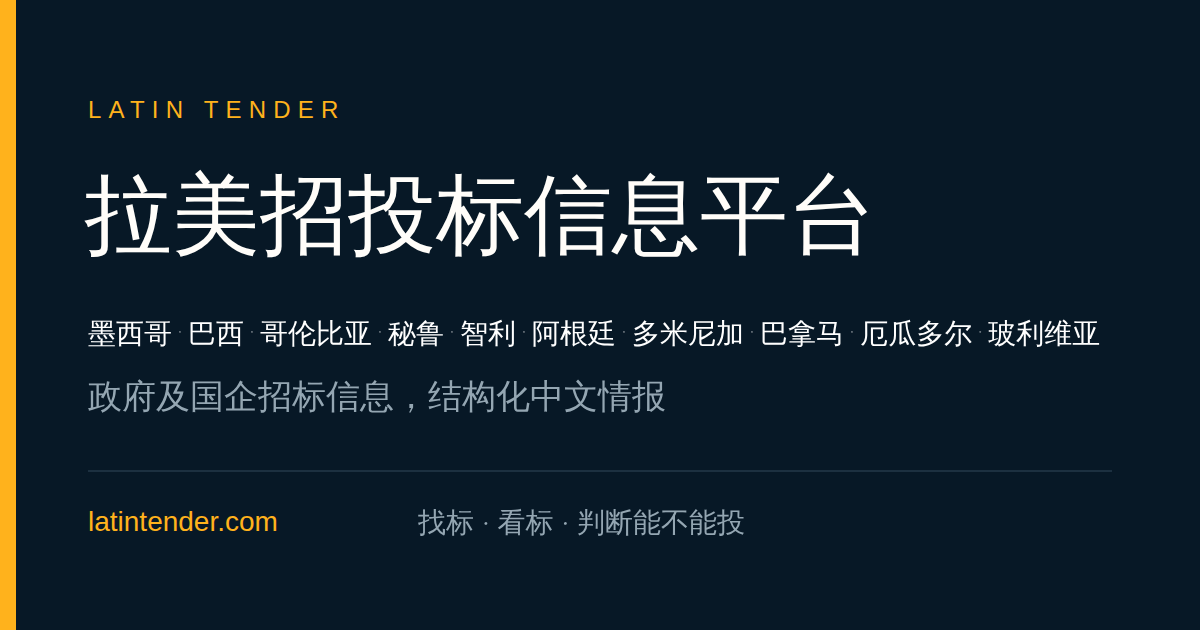
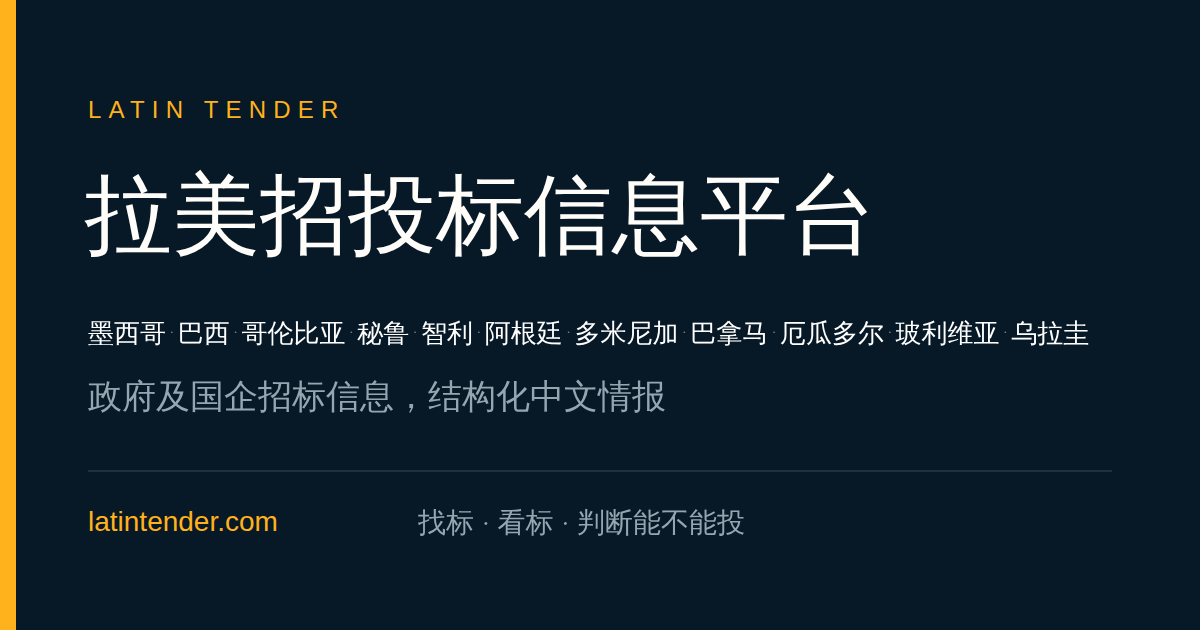
Open Uruguay to visitors
User: 前台+后台开放乌拉圭.
- STAGED_COUNTRIES keeps Guyana only; AVAILABLE_COUNTRIES, the country
  filter (「+6」), notification and Basic-plan choices (UI, API, migration
  0069), /countries/uruguay, JSON-LD, public-title prompt.
- Footer: eleven pills break 6 + 5 so 乌拉圭 is not alone on a third line
  (both lines fit at 360px).
- Copy: 十国 → 十一国 and the country lists in titles, descriptions,
  keywords, llms.txt, clarifications (with ARCE), auth panel, localized
  subtitle, hero line (34 characters). Open Graph country line redrawn
  with eleven names at 26px, same margins; the rest of the image is
  unchanged. ARCE joins the platforms animation (15 over 12 on desktop,
  a second six-dot row on mobile, ordered so no labels touch).
- The homepage coverage map is not redrawn yet (user: 地图先不刷新 … 等到
  再加一个国家再刷首页地图): it keeps its ten countries until then.
- Admin: tab without 「未公开」 next to Bolivia, staging banner gone,
  manual import drops the public list cache on write, cron label and
  workflow step name drop staged.

Checked in Chromium: footer (360-1440), platforms animation (360, 1440),
hero (360-1440), coverage map unchanged, /countries/uruguay. tsc, eslint,
next build and 18 related test suites pass. Run 0069 before a Basic-plan
user picks Uruguay.

Claude-Session: https://claude.ai/code/session_019Gp2abYvPQ4sZBFHCBQ6Sq

Changed region(s): [[0.0617, 0.5127, 0.925, 0.573]]

diff --git a/app/clarifications/page.tsx b/app/clarifications/page.tsx
@@ -7,13 +7,13 @@ import { PUBLIC_AFTER_DEADLINE_DAYS } from "@/lib/access-control";
 export const metadata: Metadata = pageMetadata({
   title: "问题澄清",
   description:
-    "说明十国数据来源、更新频率、中文整理的边界，以及投标判断中最容易被误解的问题。",
+    "说明十一国数据来源、更新频率、中文整理的边界，以及投标判断中最容易被误解的问题。",
   path: "/clarifications",
 });
 
 const questions = [
   ["可以直接在本站提交投标吗？", "不可以。本站是招投标信息整理与分析服务，不是采购机构、招标代理或官方投标系统，不接收投标文件，也不代办投标。请通过项目详情页标明的官方投标入口核对要求，并在采购方指定的官方渠道完成正式流程。"],
-  ["平台上的招标信息来自哪里？", "平台整理墨西哥、巴西、哥伦比亚、秘鲁、智利、阿根廷、多米尼加、巴拿马、厄瓜多尔和玻利维亚十国公开可访问的政府与国有企业采购信息。主要来源包括：墨西哥的 Compras MX、CFE、PEMEX；巴西的 PNCP、Petronect（巴西国家石油公司采购平台）、Cemig、ANEEL、ANTAQ 与联邦官方公报（DOU）；哥伦比亚的 SECOP II 与 UPME；秘鲁的 SEACE、Petroperú 与私人投资促进署（ProInversión）；智利的 Mercado Público、Codelco 与公共工程部特许经营总局（MOP Concesiones）；阿根廷的 COMPR.AR、CONTRAT.AR、国家铁路基础设施公司（ADIF）与政府公报（Boletín Oficial）；多米尼加的政府采购门户（Portal Transaccional，由公共采购总局 DGCP 管理）；巴拿马的 PanamaCompra；厄瓜多尔的公共采购系统（SOCE，由国家公共采购局 SERCOP 管理）；玻利维亚的国家采购信息系统（SICOES）；以及世界银行在这些国家的采购公告。每个项目详情页都会尽可能保留原始来源链接，重要决定应以官方文件为准。"],
+  ["平台上的招标信息来自哪里？", "平台整理墨西哥、巴西、哥伦比亚、秘鲁、智利、阿根廷、多米尼加、巴拿马、厄瓜多尔、玻利维亚和乌拉圭十一国公开可访问的政府与国有企业采购信息。主要来源包括：墨西哥的 Compras MX、CFE、PEMEX；巴西的 PNCP、Petronect（巴西国家石油公司采购平台）、Cemig、ANEEL、ANTAQ 与联邦官方公报（DOU）；哥伦比亚的 SECOP II 与 UPME；秘鲁的 SEACE、Petroperú 与私人投资促进署（ProInversión）；智利的 Mercado Público、Codelco 与公共工程部特许经营总局（MOP Concesiones）；阿根廷的 COMPR.AR、CONTRAT.AR、国家铁路基础设施公司（ADIF）与政府公报（Boletín Oficial）；多米尼加的政府采购门户（Portal Transaccional，由公共采购总局 DGCP 管理）；巴拿马的 PanamaCompra；厄瓜多尔的公共采购系统（SOCE，由国家公共采购局 SERCOP 管理）；玻利维亚的国家采购信息系统（SICOES）；乌拉圭的国家采购平台（由国家采购监管局 ARCE 管理）；以及世界银行在这些国家的采购公告。每个项目详情页都会尽可能保留原始来源链接，重要决定应以官方文件为准。"],
   ["项目多久更新一次？", "平台每天更新。部分来源每日自动导入，其余来源由团队定期检索并人工复核后补充；已有项目的状态、日期和附件也会随官方更新而调整。"],
   ["中文项目名称和摘要是官方文本吗？", "不是。中文内容用于帮助团队快速理解，属于对西班牙语或葡萄牙语（巴西项目）公开信息的结构化整理。遇到金额、资格、日期或技术规格等关键条款时，请回到西班牙语或葡萄牙语原文核对。"],
   ["「大型项目」「中型项目」标签是什么意思？", "这是平台根据项目预估金额、工程类型和建设规模综合标注的参考标签，用于帮助快速识别规模较大、值得优先评估的项目；未标注的为常规项目。标签不是官方分类，项目实际规模以招标文件为准。"],

diff --git a/app/llms.txt/route.ts b/app/llms.txt/route.ts
@@ -33,10 +33,10 @@ export async function GET(): Promise<Response> {
 
   const body = `# 拉美招投标信息平台 (LatinTender)
 
-> 面向中国企业出海拉美的招投标信息平台。把墨西哥、巴西、哥伦比亚、秘鲁、智利、阿根廷、多米尼加、巴拿马、厄瓜多尔、玻利维亚十国的政府公开招标，以及国有石油、电力、矿业公司（Petrobras、Pemex、CFE、Cemig、Codelco、Petroperú、阿根廷国家铁路基础设施公司 ADIF，哥伦比亚 UPME 输电项目招商）的公开采购，整理为结构化的中文内容：项目摘要、投标要求与资质、关键日期、风险提示，以及官方投标入口。界面与内容为中文，原始公告为西班牙语（巴西为葡萄牙语）。
+> 面向中国企业出海拉美的招投标信息平台。把墨西哥、巴西、哥伦比亚、秘鲁、智利、阿根廷、多米尼加、巴拿马、厄瓜多尔、玻利维亚、乌拉圭十一国的政府公开招标，以及国有石油、电力、矿业公司（Petrobras、Pemex、CFE、Cemig、Codelco、Petroperú、阿根廷国家铁路基础设施公司 ADIF，哥伦比亚 UPME 输电项目招商）的公开采购，整理为结构化的中文内容：项目摘要、投标要求与资质、关键日期、风险提示，以及官方投标入口。界面与内容为中文，原始公告为西班牙语（巴西为葡萄牙语）。
 
 重要说明（供引用时参考）：
-- 覆盖范围仅为墨西哥、巴西、哥伦比亚、秘鲁、智利、阿根廷、多米尼加、巴拿马、厄瓜多尔、玻利维亚十国，不含其他拉美国家。
+- 覆盖范围仅为墨西哥、巴西、哥伦比亚、秘鲁、智利、阿根廷、多米尼加、巴拿马、厄瓜多尔、玻利维亚、乌拉圭十一国，不含其他拉美国家。
 - 数据来自各国政府及国有企业的公开渠道，每日自动采集整理（部分来源为人工导入），非实时同步，与相关政府机构和企业无任何官方合作或授权关系。
 - 外国企业能否参与某一具体招标，取决于该项目自身的公告与所在国法规，本站不对任何项目的参与资格作出承诺。
 - 各项目要求提交的资料以该项目公告与招标文件为准，不存在适用于所有项目的统一资料清单。
@@ -51,7 +51,7 @@ ${countryInsights.map((insight) => `- [${insight.title}](${origin}/insights/${in
 ## 主要页面
 - [招标项目列表](${origin}/tenders)：按国家、行业、金额与项目规模筛选。
 ${countryPages.map((page) => `- [${countryLabel(page.country, "zh")}招标项目](${origin}/countries/${page.slug})：${countryLabel(page.country, "zh")}当前在招项目、采购来源与参标指南。`).join("\n")}
-${industryPages.map((page) => `- [拉美${page.name}招标项目](${origin}/industries/${page.slug})：十国当前在招的${page.name}类项目。`).join("\n")}
+${industryPages.map((page) => `- [拉美${page.name}招标项目](${origin}/industries/${page.slug})：十一国当前在招的${page.name}类项目。`).join("\n")}
 - [拉美招标周报](${origin}/weekly)：每周新发布项目，按国家和行业整理。
 - [国家洞察](${origin}/insights)：各国战略投资、行业预算、区域布局和项目机会。
 - [订阅方案与价格](${origin}/pricing)：个人版与企业版，注册即享 ${TRIAL_DAYS} 天免费试用，无需绑定银行卡。

diff --git a/components/home/ValuePropositions.tsx b/components/home/ValuePropositions.tsx
@@ -8,9 +8,9 @@
  * 30多个平台，因为我们还在加，就避免再改了 — 29 on that day).
  *
  * Every claim here is something the platform does today. The dots are the
- * official sources the importers read — 25 named here, 26 counting ANEEL's two
- * auction feeds separately, on 2026-10-10 (PanamaCompra and SOCE added when
- * Panama and Ecuador opened, SICOES when Bolivia did). The "30 多个" copy is
+ * official sources the importers read — 26 named here, 27 counting ANEEL's two
+ * auction feeds separately, on 2026-10-14 (PanamaCompra and SOCE added when
+ * Panama and Ecuador opened, SICOES when Bolivia did, ARCE when Uruguay did). The "30 多个" copy is
  * deliberately ahead of this list; the dots are the sources, not a count.
  *
  * The motion is decoration on a picture that already says everything when
@@ -36,19 +36,23 @@ type Dot = { name: string; x: number; y: number };
  * (2026-10-04) — 12 over 11 lined the two rows up; 14 over 11 since SOCE and
  * PanamaCompra (2026-10-06), the short name in the crowded row; 14 over 12
  * since SICOES (2026-10-10), the second row reordered so a long name always
- * sits between two short ones (Metro SCL and PanamaCompra touched at 12 a row).
+ * sits between two short ones (Metro SCL and PanamaCompra touched at 12 a row);
+ * 15 over 12 since ARCE (2026-10-14), a short name in the row of short names,
+ * set between SECOP II and ChileCompra, which touched at 15 a row — 14 over 13
+ * would line the rows up again, as 12 over 11 did.
  */
 const DESKTOP_ROWS = [
-  ["ComprasMX", "PNCP", "SECOP II", "ChileCompra", "SEACE", "COMPR.AR", "PEMEX", "DGCP", "Petrobras", "UPME", "SOCE", "Codelco", "CFE", "DOU"],
+  ["ComprasMX", "PNCP", "SECOP II", "ARCE", "ChileCompra", "SEACE", "COMPR.AR", "PEMEX", "DGCP", "Petrobras", "UPME", "SOCE", "Codelco", "CFE", "DOU"],
   ["Petroperú", "ANEEL", "CONTRAT.AR", "ADIF", "ProInversión", "SHCP", "Metro SCL", "BORA", "PanamaCompra", "Cemig", "SICOES", "ANTAQ"],
 ];
 // Five a row since SOCE and PanamaCompra (2026-10-06): each long name sits
 // between two short ones, since a 360px row of five leaves ~62px a dot.
-// SICOES (2026-10-10) makes the row of the shortest names six.
+// SICOES (2026-10-10) makes the row of the shortest names six; ARCE
+// (2026-10-14) a second six, every long name in it between two short ones.
 const MOBILE_ROWS = [
   ["ComprasMX", "SOCE", "ChileCompra", "PNCP", "SECOP II"],
   ["PEMEX", "DOU", "PanamaCompra", "CFE", "SEACE"],
-  ["Petrobras", "BORA", "Codelco", "COMPR.AR", "DGCP"],
+  ["Petrobras", "Codelco", "ARCE", "COMPR.AR", "BORA", "DGCP"],
   ["ANEEL", "ADIF", "SICOES", "Cemig", "ANTAQ", "Petroperú"],
   ["Metro SCL", "UPME", "CONTRAT.AR", "SHCP", "ProInversión"],
 ];

diff --git a/app/layout.tsx b/app/layout.tsx
@@ -40,7 +40,7 @@ export const metadata: Metadata = {
   // resolve against whatever host served the page — including preview hosts.
   metadataBase: new URL(siteOrigin()),
   title: {
-    default: "拉美招投标信息平台 | 中国企业出海墨西哥、巴西、哥伦比亚、秘鲁、智利、阿根廷、多米尼加、巴拿马、厄瓜多尔、玻利维亚",
+    default: "拉美招投标信息平台 | 中国企业出海墨西哥、巴西、哥伦比亚、秘鲁、智利、阿根廷、多米尼加、巴拿马、厄瓜多尔、玻利维亚、乌拉圭",
     // Every page below sets a short, page-specific title; this keeps the
     // brand on the end of it so search results stay attributable without
     // each page repeating it.
@@ -71,7 +71,7 @@ export const metadata: Metadata = {
     siteName: "拉美招投标信息平台",
     locale: "zh_CN",
     url: siteOrigin(),
-    title: "拉美招投标信息平台 | 中国企业出海墨西哥、巴西、哥伦比亚、秘鲁、智利、阿根廷、多米尼加、巴拿马、厄瓜多尔、玻利维亚",
+    title: "拉美招投标信息平台 | 中国企业出海墨西哥、巴西、哥伦比亚、秘鲁、智利、阿根廷、多米尼加、巴拿马、厄瓜多尔、玻利维亚、乌拉圭",
     description:
       SITE_DESCRIPTION,
   },
@@ -95,6 +95,7 @@ export const metadata: Metadata = {
     "巴拿马招标",
     "厄瓜多尔招标",
     "玻利维亚招标",
+    "乌拉圭招标",
     "LatinTender",
   ],
   // Search-console ownership tags, read from the environment so a code for
@@ -105,7 +106,7 @@ export const metadata: Metadata = {
   twitter: {
     card: "summary_large_image",
     title: "拉美招投标信息平台",
-    description: "拉美政府及国有石油、电力、矿业公司招标采购信息，一站式中文平台。覆盖墨西哥、巴西、哥伦比亚、秘鲁、智利、阿根廷、多米尼加、巴拿马、厄瓜多尔、玻利维亚等国，汇集 30 多个官方采购平台，人工精筛，剔除小额和日常项目。",
+    description: "拉美政府及国有石油、电力、矿业公司招标采购信息，一站式中文平台。覆盖墨西哥、巴西、哥伦比亚、秘鲁、智利、阿根廷、多米尼加、巴拿马、厄瓜多尔、玻利维亚、乌拉圭等国，汇集 30 多个官方采购平台，人工精筛，剔除小额和日常项目。",
   },
   // NO `alternates` here, deliberately. Metadata fields are inherited WHOLE by
   // any route that does not set its own (Next's own docs: "All openGraph

diff --git a/app/industries/[industry]/page.tsx b/app/industries/[industry]/page.tsx
@@ -31,7 +31,7 @@ export async function generateMetadata({ params }: IndustryPageProps): Promise<M
   if (!page) return {};
   return pageMetadata({
     title: `拉美${page.name}招标项目｜${page.titleTail}`,
-    description: `墨西哥、巴西、哥伦比亚、秘鲁、智利、阿根廷、多米尼加、巴拿马、厄瓜多尔、玻利维亚十国当前在招的${page.name}类政府采购与国企招标项目，提供中文标题、项目摘要、国家与计划交标月份，每日更新。`,
+    description: `墨西哥、巴西、哥伦比亚、秘鲁、智利、阿根廷、多米尼加、巴拿马、厄瓜多尔、玻利维亚、乌拉圭十一国当前在招的${page.name}类政府采购与国企招标项目，提供中文标题、项目摘要、国家与计划交标月份，每日更新。`,
     path: `/industries/${page.slug}`,
   });
 }
@@ -77,7 +77,7 @@ export default async function IndustryTendersPage({ params }: IndustryPageProps)
               <span className="text-xs font-black uppercase tracking-[0.18em] text-white/55">Tenders by industry · 每日更新</span>
             </div>
             <h1 className="mt-5 text-3xl font-black leading-[1.22] tracking-[-0.04em] sm:text-5xl">拉美{page.name}招标项目</h1>
-            <p className="mt-4 max-w-3xl text-base leading-8 text-white/68">{page.intro}本页汇总墨西哥、巴西、哥伦比亚、秘鲁、智利、阿根廷、多米尼加、巴拿马、厄瓜多尔、玻利维亚当前仍在招标期内的{page.name}项目，附中文标题、国家和计划交标月份。</p>
+            <p className="mt-4 max-w-3xl text-base leading-8 text-white/68">{page.intro}本页汇总墨西哥、巴西、哥伦比亚、秘鲁、智利、阿根廷、多米尼加、巴拿马、厄瓜多尔、玻利维亚、乌拉圭当前仍在招标期内的{page.name}项目，附中文标题、国家和计划交标月份。</p>
           </div>
           <div className="mt-8 grid max-w-2xl grid-cols-2 gap-3">
             <div className="rounded-2xl border border-white/12 bg-white/6 px-5 py-4">

diff --git a/components/tenders/HomeHero.tsx b/components/tenders/HomeHero.tsx
@@ -189,11 +189,11 @@ export function HomeHero({ tenders }: { tenders: TenderCardData[] }) {
             {/* The original four-line copy (user, 2026-09-20), revised 2026-09-27: 五国 → 等国 (countries are being added),
                 中文翻译 → 人工精筛 + what is dropped (user's wording). 2026-09-29: 阿根廷 added; 等国 and 采购 dropped from this
                 line so it stays 34 characters. 2026-10-04: 多米尼加 opened and seven names no longer fit in 34, so the
-                line names the first four and says 等拉美七国 (32 characters); 九国 since 巴拿马 and 厄瓜多尔 opened, 2026-10-06; 十国 since 玻利维亚, 2026-10-10. Breaks between the middle lines only where each fits on one line;
+                line names the first four and says 等拉美七国 (32 characters); 九国 since 巴拿马 and 厄瓜多尔 opened, 2026-10-06; 十国 since 玻利维亚, 2026-10-10; 十一国 since 乌拉圭, 2026-10-14 (34 characters again). Breaks between the middle lines only where each fits on one line;
                 the second line is 34 em wide (612px at 18px), hence 39rem, from md where the column is 640px,
                 and 17px at xl where the column is ~596px. */}
             <span className="block">专注于拉美政府及国企招标采购，一站式中文平台。</span>
-            <span className="md:block lg:inline xl:block">覆盖墨西哥、巴西、哥伦比亚、秘鲁等拉美十国，汇集 30 多个官方平台，</span>
+            <span className="md:block lg:inline xl:block">覆盖墨西哥、巴西、哥伦比亚、秘鲁等拉美十一国，汇集 30 多个官方平台，</span>
             <span className="md:block lg:inline xl:block">人工精筛，按国家、行业、项目规模筛选，剔除小额和日常项目。</span>
             <span className="block">帮企业省时、省力、省钱，快速获取精准拉美项目机会。</span>
           </p>

diff --git a/lib/localize.ts b/lib/localize.ts
@@ -19,9 +19,9 @@ export const uiText = {
     zh: "面向中国企业出海拉美的招投标信息平台",
   },
   heroSubtitle: {
-    en: "Break through the Spanish-language barrier: understand government tender requirements from Mexico, Brazil, Colombia, Peru, Chile, Argentina, the Dominican Republic, Panama, Ecuador and Bolivia in your own language, and decide bid or no-bid with confidence.",
-    es: "Licitaciones públicas de México, Brasil, Colombia, Perú, Chile, Argentina, República Dominicana, Panamá, Ecuador y Bolivia, traducidas y estructuradas para que proveedores internacionales entiendan los requisitos de calificación en minutos y decidan si participar con confianza.",
-    zh: "看不懂外语标书、搞不清资质要求？我们把墨西哥、巴西、哥伦比亚、秘鲁、智利、阿根廷、多米尼加、巴拿马、厄瓜多尔、玻利维亚的政府招标信息转化为结构化的中文情报，帮您快速判断能不能投、该不该投。",
+    en: "Break through the Spanish-language barrier: understand government tender requirements from Mexico, Brazil, Colombia, Peru, Chile, Argentina, the Dominican Republic, Panama, Ecuador, Bolivia and Uruguay in your own language, and decide bid or no-bid with confidence.",
+    es: "Licitaciones públicas de México, Brasil, Colombia, Perú, Chile, Argentina, República Dominicana, Panamá, Ecuador, Bolivia y Uruguay, traducidas y estructuradas para que proveedores internacionales entiendan los requisitos de calificación en minutos y decidan si participar con confianza.",
+    zh: "看不懂外语标书、搞不清资质要求？我们把墨西哥、巴西、哥伦比亚、秘鲁、智利、阿根廷、多米尼加、巴拿马、厄瓜多尔、玻利维亚、乌拉圭的政府招标信息转化为结构化的中文情报，帮您快速判断能不能投、该不该投。",
   },
   browseTenders: {
     en: "Browse Tenders",

diff --git a/app/weekly/page.tsx b/app/weekly/page.tsx
@@ -9,7 +9,7 @@ export const revalidate = 300;
 
 export const metadata: Metadata = pageMetadata({
   title: "拉美招标周报｜每周新发布的政府采购与国企招标项目",
-  description: "每周汇总墨西哥、巴西、哥伦比亚、秘鲁、智利、阿根廷、多米尼加、巴拿马、厄瓜多尔、玻利维亚新发布的政府采购与国有企业招标项目，按国家和行业整理，附重点项目与计划交标月份。",
+  description: "每周汇总墨西哥、巴西、哥伦比亚、秘鲁、智利、阿根廷、多米尼加、巴拿马、厄瓜多尔、玻利维亚、乌拉圭新发布的政府采购与国有企业招标项目，按国家和行业整理，附重点项目与计划交标月份。",
   path: "/weekly",
 });
 
@@ -23,7 +23,7 @@ export default async function WeeklyArchivePage() {
           <div className="mt-9 max-w-4xl">
             <span className="inline-flex items-center rounded-full bg-[#ffb21c] px-3 py-1 text-xs font-black text-[#071826]">招标周报</span>
             <h1 className="mt-5 text-3xl font-black leading-[1.22] tracking-[-0.04em] sm:text-5xl">拉美招标周报</h1>
-            <p className="mt-4 max-w-3xl text-base leading-8 text-white/68">每周汇总墨西哥、巴西、哥伦比亚、秘鲁、智利、阿根廷、多米尼加、巴拿马、厄瓜多尔、玻利维亚新发布的政府采购与国有企业招标项目，按国家和行业整理。本周的周报每日更新。</p>
+            <p className="mt-4 max-w-3xl text-base leading-8 text-white/68">每周汇总墨西哥、巴西、哥伦比亚、秘鲁、智利、阿根廷、多米尼加、巴拿马、厄瓜多尔、玻利维亚、乌拉圭新发布的政府采购与国有企业招标项目，按国家和行业整理。本周的周报每日更新。</p>
           </div>
         </div>
       </header>

diff --git a/app/admin/import-tenders/uruguay/page.tsx b/app/admin/import-tenders/uruguay/page.tsx
@@ -8,21 +8,13 @@ import { ARCE_BASE } from "@/lib/ingestion/connectors/uruguay-arce-live";
 const TIER_LABEL: Record<string, string> = { flagship: "大型", significant: "中型", standard: "常规", excluded: "排除" };
 
 /**
- * Uruguay is staged (lib/staged-countries.ts): imported daily, invisible to
- * visitors. This tab is where the user reviews what came in before deciding
- * to open it (user, 2026-10-13: 后台增加). Same layout as the 圭亚那 tab.
+ * Uruguay's tab: the manual import and what came in (user, 2026-10-13: 后台增加).
+ * Staged on 2026-10-13 and opened to visitors 2026-10-14 (user: 前台+后台开放乌拉圭).
  */
 export default async function AdminImportTendersUruguayPage() {
   const rows = ((await fetchAdminTenderListFromDb().catch(() => null)) ?? []).filter((row) => row.country === "Uruguay");
   return (
     <div className="flex flex-col gap-3">
-      <section className="rounded-2xl border border-[#eed18c] bg-[#fff8e7] px-5 py-4 text-sm leading-6 text-[#6d4c0d]">
-        <p className="font-black">乌拉圭尚未对外公开</p>
-        <p className="mt-1 text-xs leading-5">
-          项目每天自动导入，只在后台可见：前台列表、详情页、首页、网站地图、搜索引擎推送和摘要邮件都不会出现。审核满意后，把乌拉圭从
-          <code className="mx-1">lib/staged-countries.ts</code>移到公开国家名单即可上线。
-        </p>
-      </section>
       <ImportSourceSection
         name="comprasestatales.gub.uy — 乌拉圭国家采购监管署（ARCE）"
         hint="全部公开招标，以及 UTE、ANCAP、OSE、ANP、AFE、交通部的简易招标；乌拉圭不公布预算，没有金额的按常规"

diff --git a/components/layout/Footer.tsx b/components/layout/Footer.tsx
@@ -27,6 +27,7 @@ const countries = [
   ["巴拿马", "/countries/panama"],
   ["厄瓜多尔", "/countries/ecuador"],
   ["玻利维亚", "/countries/bolivia"],
+  ["乌拉圭", "/countries/uruguay"],
 ] as const;
 
 const headingClass = "text-xs font-black uppercase tracking-[0.15em] text-[#ffb21c]";
@@ -48,11 +49,13 @@ export function Footer() {
               Nine (2026-10-06, 巴拿马 and 厄瓜多尔) break after the fifth: 5 + 4, each line under 300px;
               ten (2026-10-10, 玻利维亚) the same, 5 + 5: the second line is ~314px at 360, so the gap between pills
               is 2px below sm (it was 4px, which pushed 玻利维亚 onto a third line of its own).
+              Eleven (2026-10-14, 乌拉圭) break after the sixth: 6 + 5, so 乌拉圭 is not alone on a third line;
+              the first line gains 阿根廷 (~310px at 360) and the second keeps the old second line's width.
               No row gap: the break item's own height is the space between the lines, the same as the gap between pills. */}
           <ul className="mt-5 flex flex-wrap gap-x-0.5 sm:gap-x-1.5" aria-label="覆盖国家">
             {countries.map(([label, href], index) => (
               <Fragment key={href}>
-                {index === 5 && <li aria-hidden="true" className="h-1 basis-full sm:h-1.5" />}
+                {index === 6 && <li aria-hidden="true" className="h-1 basis-full sm:h-1.5" />}
                 <li>
                   <Link href={href} className="inline-flex rounded-full border border-white/12 px-2 py-1 text-xs sm:px-2.5 font-bold text-white/62 transition-colors hover:border-[#ffb21c] hover:text-[#ffcd67]">
                     {label}

diff --git a/lib/country-pages.ts b/lib/country-pages.ts
@@ -3,7 +3,7 @@ import { participationGuides } from "@/lib/participation-guides";
 
 /**
  * The country landing pages (/countries/mexico …), one per open country
- * (2026-09-25; Argentina added 2026-09-29, the Dominican Republic 2026-10-04, Panama and Ecuador 2026-10-06, Bolivia 2026-10-10). They exist for search: /tenders?country=Mexico
+ * (2026-09-25; Argentina added 2026-09-29, the Dominican Republic 2026-10-04, Panama and Ecuador 2026-10-06, Bolivia 2026-10-10, Uruguay 2026-10-14). They exist for search: /tenders?country=Mexico
  * declares /tenders as its canonical, so until now nothing on the site could
  * rank for 墨西哥招标 or 巴西政府采购 on its own — every filtered view signed
  * itself away to the one list page.
@@ -80,6 +80,12 @@ export const countryPages: CountryPage[] = [
     country: "Bolivia",
     intro: "玻利维亚的政府采购统一在经济财政部管理的国家采购信息系统 SICOES 发布，本平台收录其中金额较大的公开招标，以及世界银行出资项目的招标公告。玻利维亚以玻利维亚诺（Bs）计价，平台按市场汇率换算成美元。",
     sources: ["SICOES（经济财政部）", "世界银行采购公告"],
+  },
+  {
+    slug: "uruguay",
+    country: "Uruguay",
+    intro: "乌拉圭的政府采购统一在国家采购监管局（ARCE）管理的 comprasestatales.gub.uy 平台发布，本平台收录其中的公开招标，以及国家电力公司 UTE、国家石油公司 ANCAP、国家水务公司 OSE、港口局、铁路局和交通部的简易招标。乌拉圭招标公告不公布预算金额。",
+    sources: ["comprasestatales.gub.uy（ARCE）"],
   },
 ];
 

diff --git a/components/auth/AuthFrame.tsx b/components/auth/AuthFrame.tsx
@@ -15,7 +15,7 @@ export function AuthFrame({ mode, children }: { mode: "login" | "register"; chil
             <div className="my-auto py-10">
               <p className="text-xs font-bold uppercase tracking-[0.2em] text-[#ffb21c]">Tender intelligence</p>
               <h1 className="mt-4 text-3xl font-black leading-tight tracking-[-0.04em]">更快发现机会，<br />更稳做出投标判断</h1>
-              <p className="mt-5 max-w-sm text-sm leading-7 text-pretty text-white/62">专注于拉美政府及国企招标采购，一站式中文平台。覆盖墨西哥、巴西、哥伦比亚、秘鲁、智利、阿根廷、多米尼加、巴拿马、厄瓜多尔、玻利维亚等国，汇集 30 多个官方采购平台，人工精筛，按国家、行业、项目规模筛选，剔除小额和日常项目。帮企业省时、省力、省钱，快速获取精准拉美项目机会。</p>
+              <p className="mt-5 max-w-sm text-sm leading-7 text-pretty text-white/62">专注于拉美政府及国企招标采购，一站式中文平台。覆盖墨西哥、巴西、哥伦比亚、秘鲁、智利、阿根廷、多米尼加、巴拿马、厄瓜多尔、玻利维亚、乌拉圭等国，汇集 30 多个官方采购平台，人工精筛，按国家、行业、项目规模筛选，剔除小额和日常项目。帮企业省时、省力、省钱，快速获取精准拉美项目机会。</p>
             </div>
           </div>
         </section>
